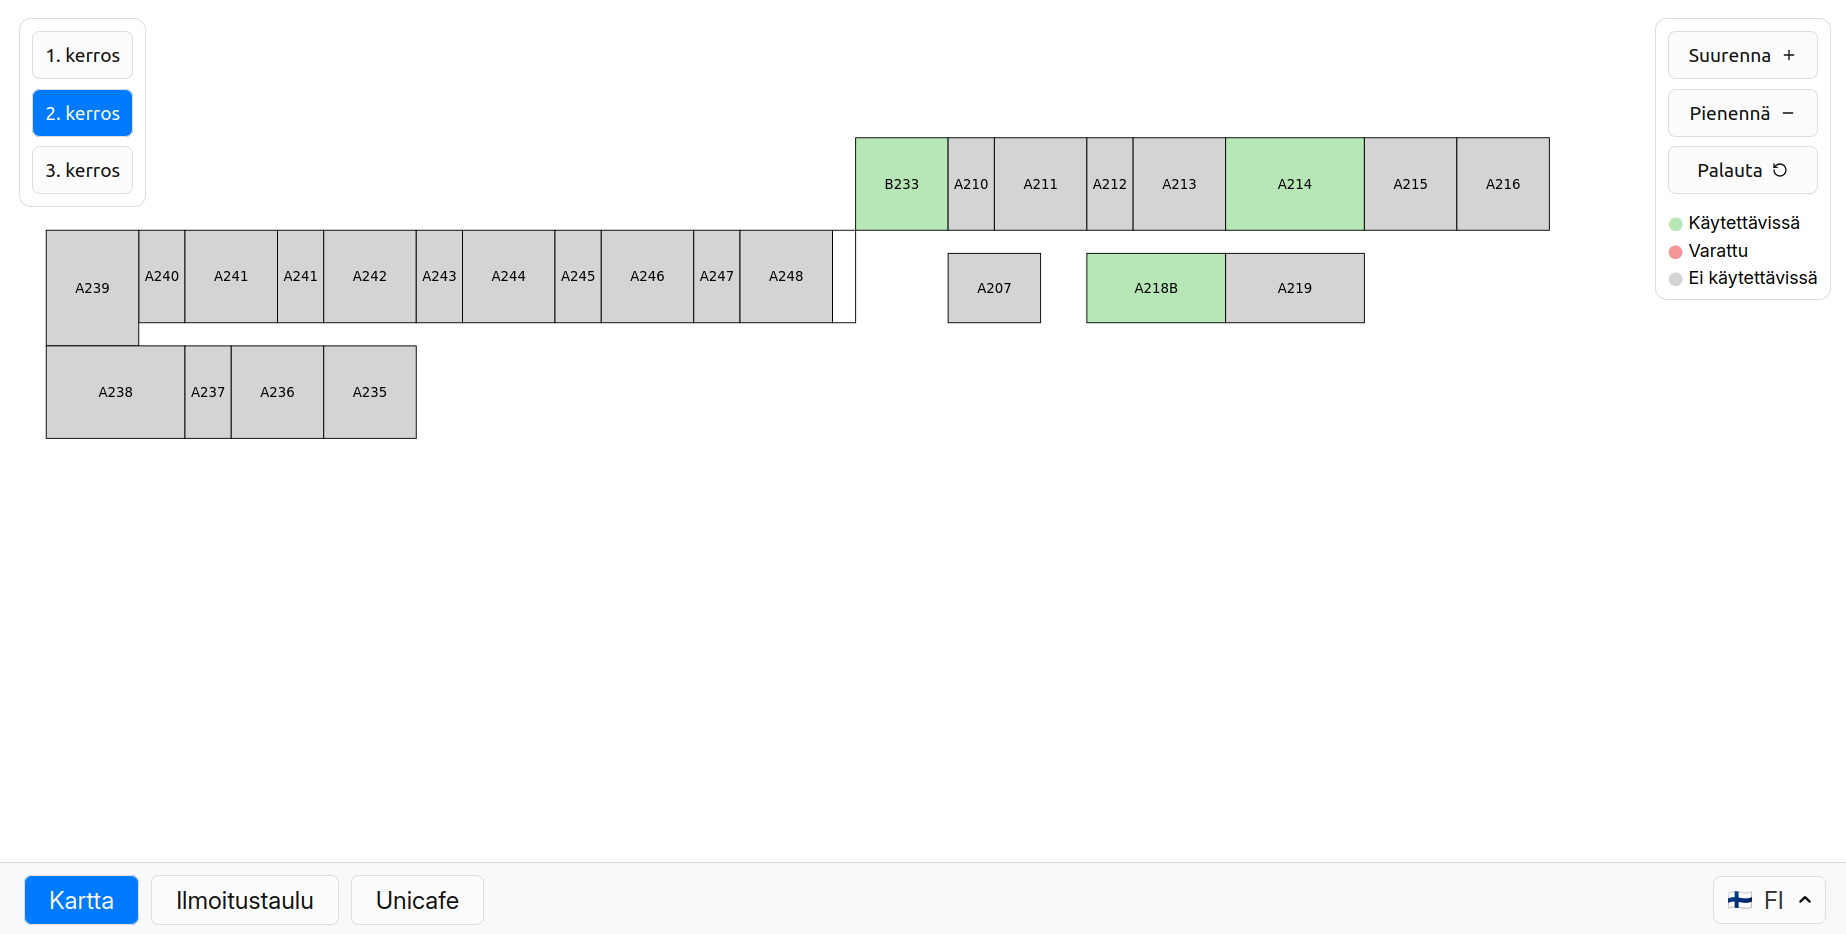
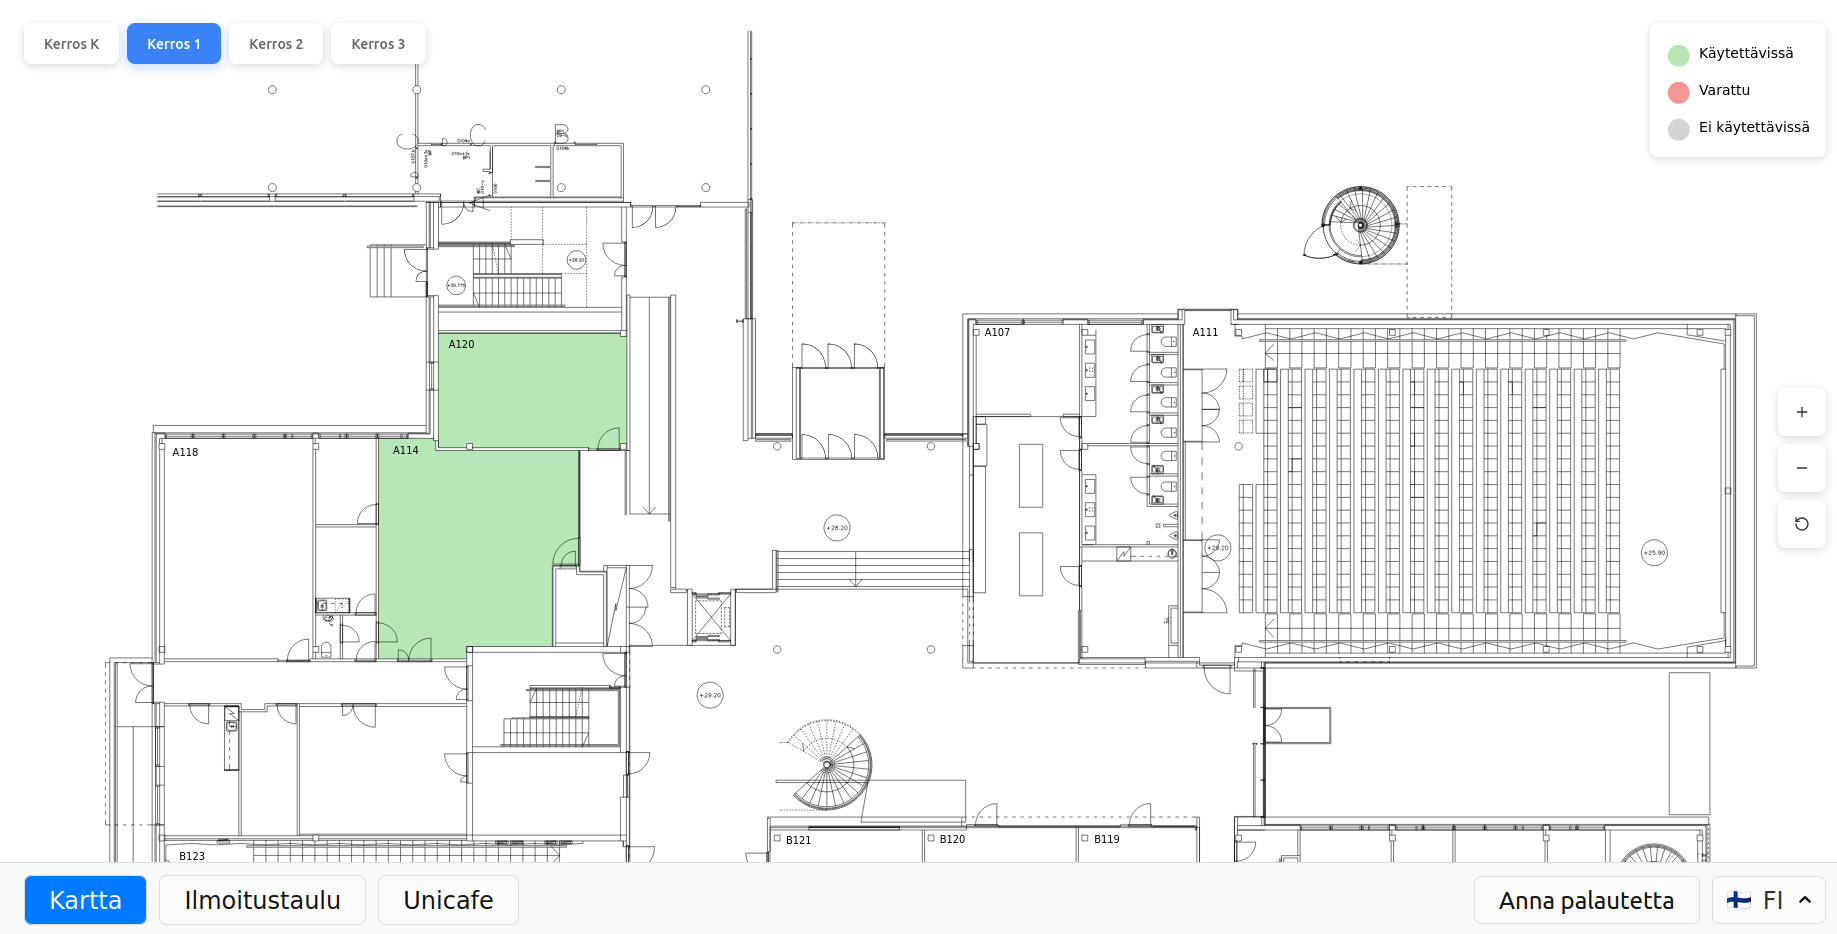
update gh page

Changed region(s): [[0.0, 0.0, 0.9929, 0.9936], [0.4034, 0.7762, 0.9929, 0.9936], [0.1862, 0.031, 0.2172, 0.0621]]

diff --git a/docs/index.html b/docs/index.html
@@ -11,7 +11,7 @@
       <h1><strong>infopiste:</strong> kerroskartta, ilmoitustaulu ja ruokalistat Exan näytöille</h1>
 
       <img src="demo.png" alt="demo">
-      
+
       <p>
         Syksyllä -25 aloitetussa ohtuprojektissa lähdettiin toteuttamaan Exactumin kosketusnäytöille
         react-pohjaista interaktiivista järjestelmää, johon toteutettiin asiakkaan toiveesta seuraavat
@@ -29,14 +29,32 @@
         eri palveluista ms graph-apin avulla. Infopistettä voi käyttää suomeksi, ruotsiksi ja myös englanniksi.
       </p>
 
+      <strong>Toteutuksessa opittua:</strong>
+
+      <ul>
+        <li>css on monimutkaista, Tailwind yms. olisi helpompi vaihtoehto</li>
+        <li>tietokanta-asioita olisi pitänyt suunnitella paremmin – nyt mietittiin asioita vasta ominaisuuksien toteutusvaiheessa</li>
+        <li>microsoft forms ei sovi käyttötapaukseemme, api on ala-arvoinen</li>
+        <li>älä oleta saavasi mitään hoidettua yliopiston it-osaston kanssa, pitää siis olla muita vaihtoehtoja (esim. mock dataa käytettävissä).</li>
+      </ul>
+
       <p>
+        <strong>>></strong>
         <a href="https://helsinkifi-my.sharepoint.com/:v:/g/personal/alec_ad_helsinki_fi/IQAMM8okqbk7TY9U1ggDRg1jAUwCS15TrOE1INqJKpuEvxU?nav=eyJyZWZlcnJhbEluZm8iOnsicmVmZXJyYWxBcHAiOiJPbmVEcml2ZUZvckJ1c2luZXNzIiwicmVmZXJyYWxBcHBQbGF0Zm9ybSI6IldlYiIsInJlZmVycmFsTW9kZSI6InZpZXciLCJyZWZlcnJhbFZpZXciOiJNeUZpbGVzTGlua0NvcHkifX0&e=Wr431r">
           Demo 1 videomuodossa
-        </a>        
+        </a>
       </p>
 
       <footer>
-        <em>Tekijät: Daniel K, Pinja K, Alec L, Niko P, Joni P, Simo S</em>
+        <em>
+          Tekijät:
+          <a href="https://github.com/candyliaa">Daniel K</a>,
+          <a href="https://github.com/pinjakokkonen">Pinja K</a>,
+          <a href="https://github.com/tiikerikakku">Alec L</a>,
+          <a href="https://github.com/shdewz">Niko P</a>,
+          <a href="https://github.com/jipeso">Joni P</a>,
+          <a href="https://github.com/saimouu">Simo S</a>
+        </em>
       </footer>
     </div>
   </body>
